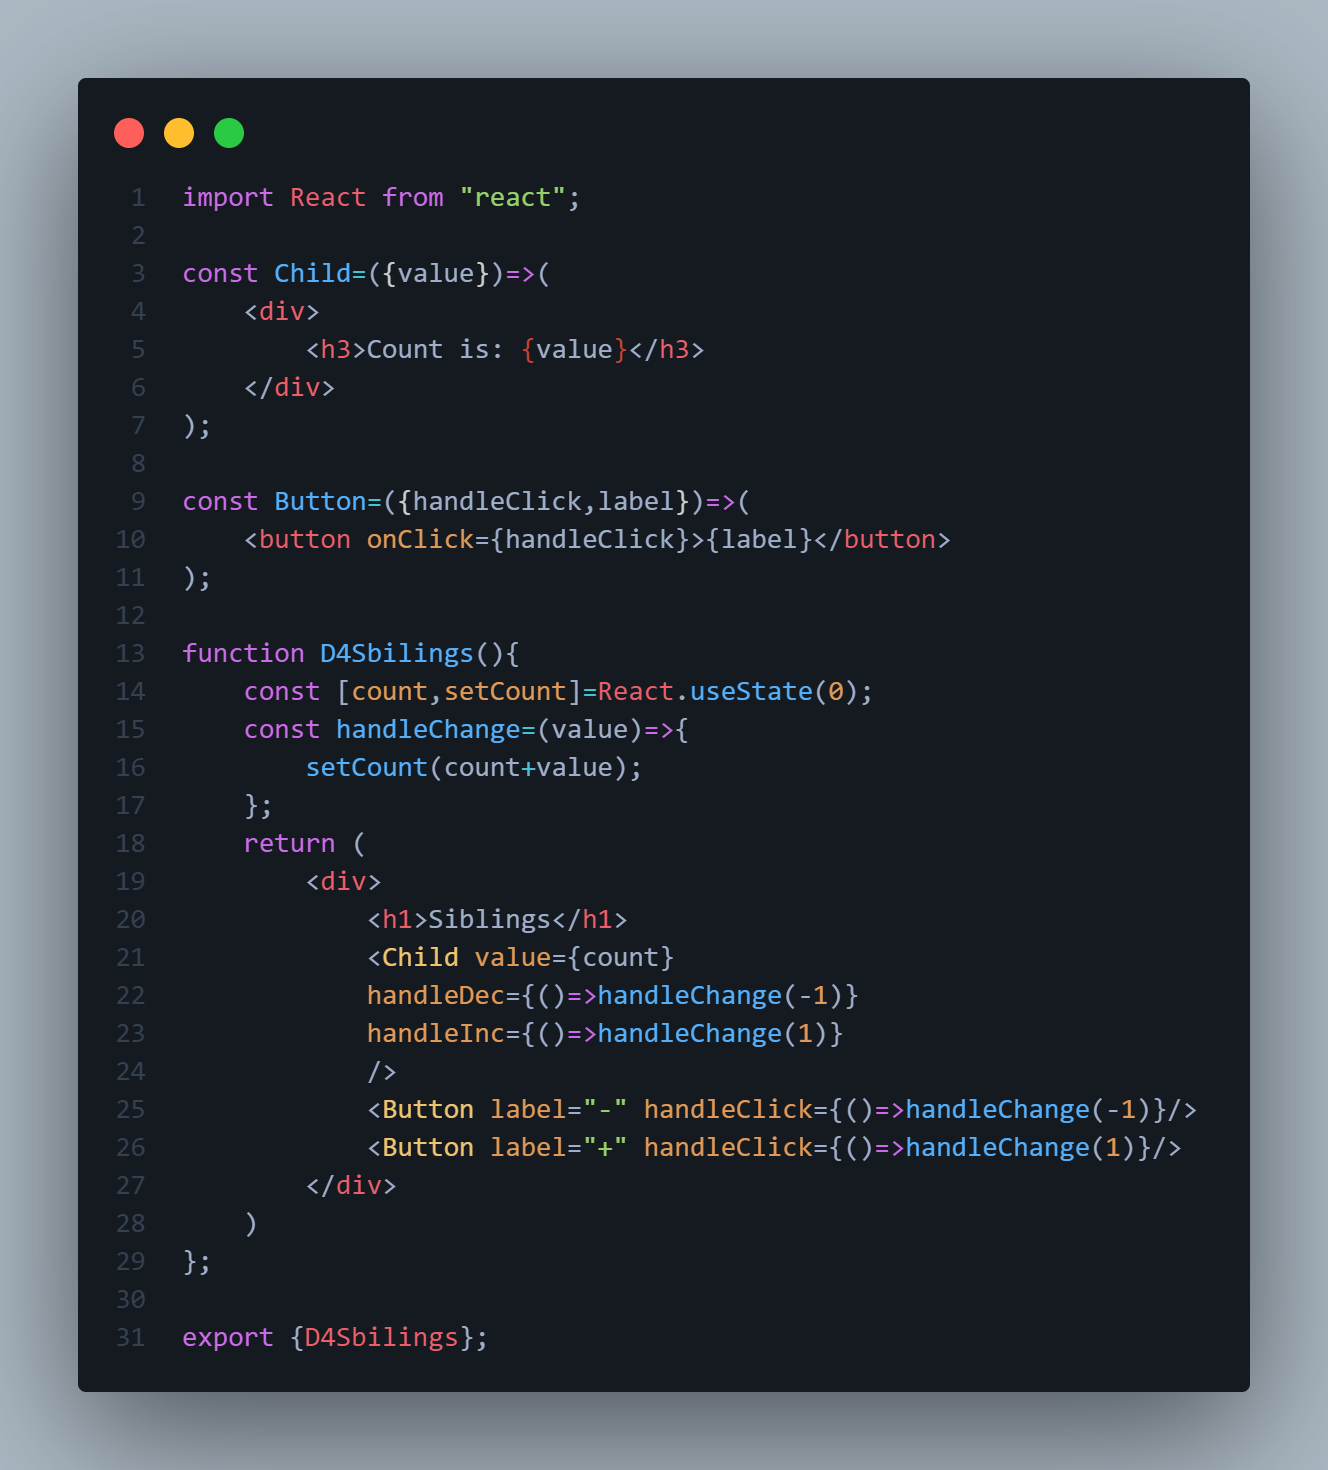
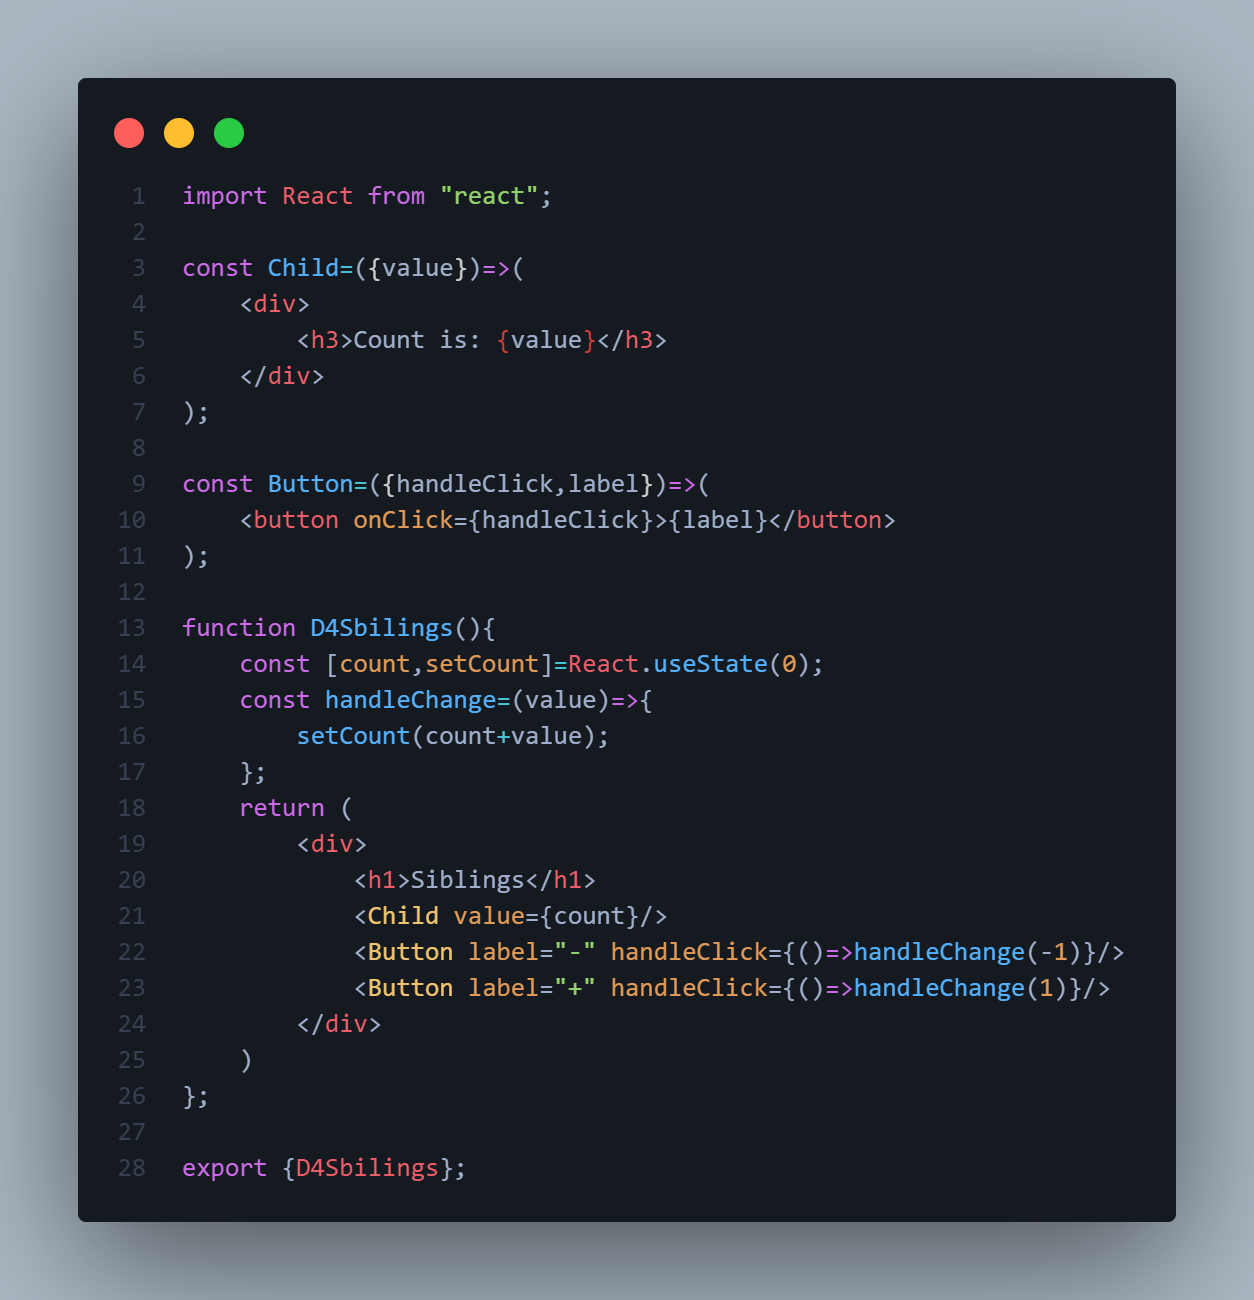
sibling live class

diff --git a/src/Day4/PreClass/Siblings.jsx b/src/Day4/PreClass/Siblings.jsx
@@ -18,10 +18,7 @@ function D4Sbilings(){
     return (
         <div>
             <h1>Siblings</h1>
-            <Child value={count}
-            handleDec={()=>handleChange(-1)}
-            handleInc={()=>handleChange(1)}
-            />
+            <Child value={count}/>
             <Button label="-" handleClick={()=>handleChange(-1)}/>
             <Button label="+" handleClick={()=>handleChange(1)}/>
         </div>

diff --git a/src/App.js b/src/App.js
@@ -1,6 +1,7 @@
 import React from 'react'
 import { PaymentCard } from './Project/PaymentCard';
 import { Address } from './Project/Address';
+import {D4Sbilings} from "./Day4/PreClass/Siblings"
 
 function App() {
 
@@ -8,7 +9,7 @@ function App() {
 
     <div>
      
-      <Address />
+      <D4Sbilings/>
     </div>
   )
 }
